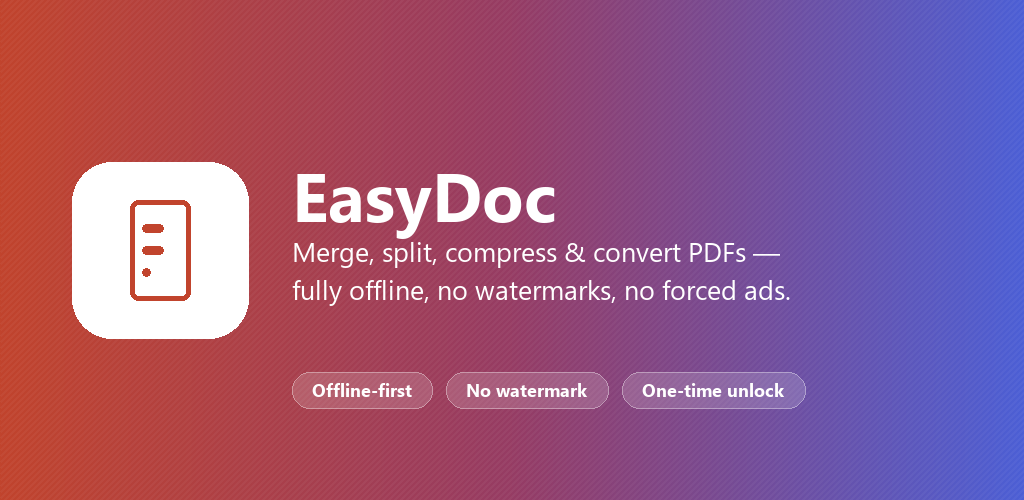
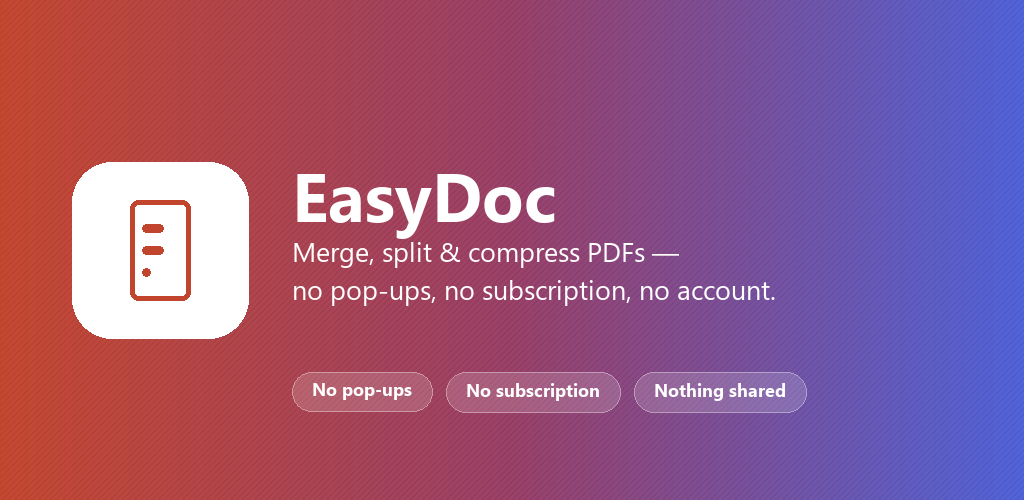
Rewrite store listing around evidence-based positioning
Replaced the generic feature-list copy with positioning built from
two concrete sources rather than assumption:

1. A direct audit of this codebase confirming every claim made here
   actually holds: zero Dialog usage anywhere (no fake warning/
   "subscription expired" popups possible), AdBanner referenced only
   on Home (never mid-task), both Billing product-type calls are
   INAPP not SUBS (no subscription path exists at all), entitlement
   state checked in exactly two places (no feature/page-count gating
   in any tool), zero occurrences of "watermark", zero Login/Auth/
   Account code, and the manifest declares only the two permissions
   AdMob/Billing actually need.
2. Reading real, high-vote user reviews on the three largest
   competitors (Adobe Acrobat 500M+, Xodo 10M+, Foxit 10M+) — their
   own top-voted reviews independently describe the exact pattern
   this copy calls out: pop-ups/warnings blocking basic viewing,
   subscriptions required for basic tasks (one Xodo reviewer with 309
   upvotes explicitly says they'd accept a one-time purchase but
   resent a PDF subscription), and forced accounts. Checking their
   Data Safety sections also shows both Adobe and Xodo share user
   data with third parties, which EasyDoc's build does not.

- short-description.txt / full-description.txt: lead with "no
  pop-ups, no subscription, no account, nothing shared" instead of a
  feature list, with the tool list kept further down.
[…]

diff --git a/store-listing/gen_feature_graphic.py b/store-listing/gen_feature_graphic.py
@@ -57,8 +57,8 @@ for w_frac in (0.62, 0.62, 0.4):
 # --- title + tagline ---
 text_x = icon_x + icon_size + 44
 draw.text((text_x, 148), "EasyDoc", font=title_font, fill=(255, 255, 255, 255))
-draw.text((text_x, 232), "Merge, split, compress & convert PDFs —", font=tagline_font, fill=(255, 255, 255, 235))
-draw.text((text_x, 270), "fully offline, no watermarks, no forced ads.", font=tagline_font, fill=(255, 255, 255, 235))
+draw.text((text_x, 232), "Merge, split & compress PDFs —", font=tagline_font, fill=(255, 255, 255, 235))
+draw.text((text_x, 270), "no pop-ups, no subscription, no account.", font=tagline_font, fill=(255, 255, 255, 235))
 
 # --- pill badges ---
 def pill(x, y, label):
@@ -75,7 +75,7 @@ def pill(x, y, label):
 
 px_cursor = text_x
 py = 372
-for label in ("Offline-first", "No watermark", "One-time unlock"):
+for label in ("No pop-ups", "No subscription", "Nothing shared"):
     px_cursor = pill(px_cursor, py, label) + 14
 
 import os

diff --git a/store-listing/README.md b/store-listing/README.md
@@ -3,6 +3,19 @@
 Copy-paste-ready text and graphics for the Play Console "Store presence > Main store listing"
 page (step 9 of the build order — see the root [README.md](../README.md)).
 
+## Positioning
+
+The short/full descriptions and feature graphic here don't lead with a feature list — they lead
+with "no pop-ups, no subscription, no account, nothing shared." That copy isn't aspirational: it
+was written after (1) auditing this codebase directly to confirm every one of those claims holds
+with zero exceptions (no `Dialog` anywhere in the app, entitlement state checked in exactly two
+places, both Billing product-type calls are `INAPP` never `SUBS`, zero third-party data sharing),
+and (2) reading real, high-vote-count user reviews on the three largest competitors in this
+category (Adobe Acrobat 500M+, Xodo 10M+, Foxit 10M+) — all three have their own users' top
+reviews complaining about exactly the pattern this copy calls out by name. If EasyDoc's behavior
+ever changes (an ad placement added elsewhere, a dialog introduced, a new SDK that shares data),
+this copy needs to be revisited before it's a lie rather than a fact.
+
 | File | Play Console field | Limit | Notes |
 |---|---|---|---|
 | `short-description.txt` | Short description | 80 characters | |
